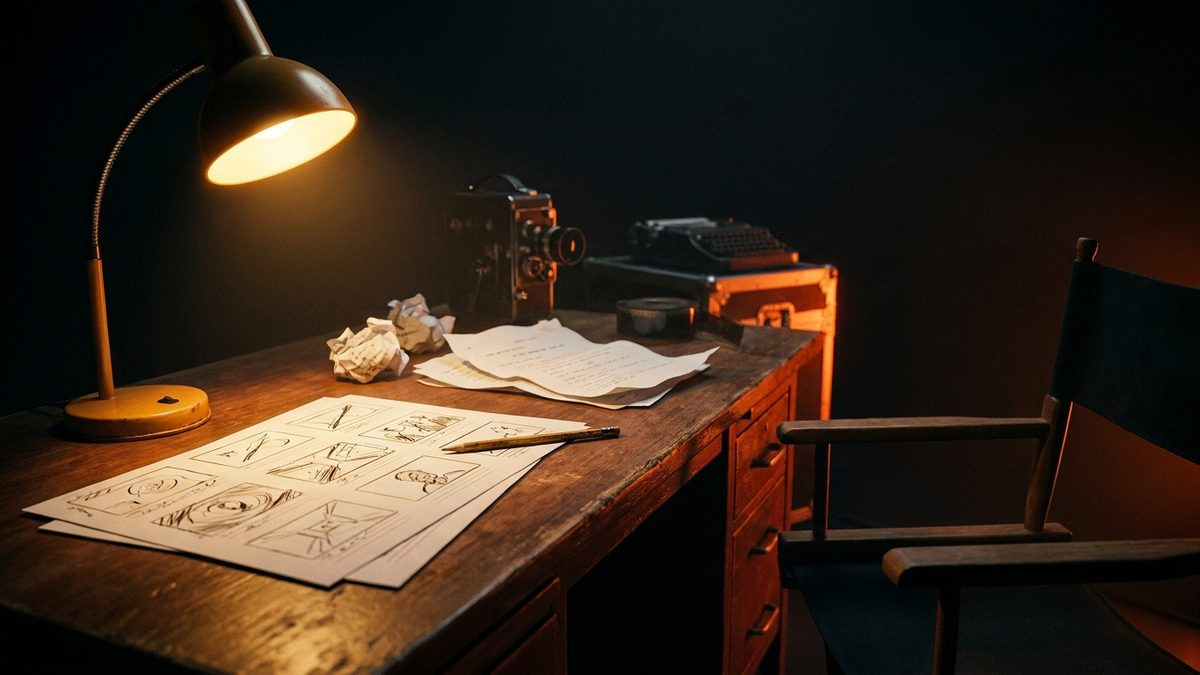
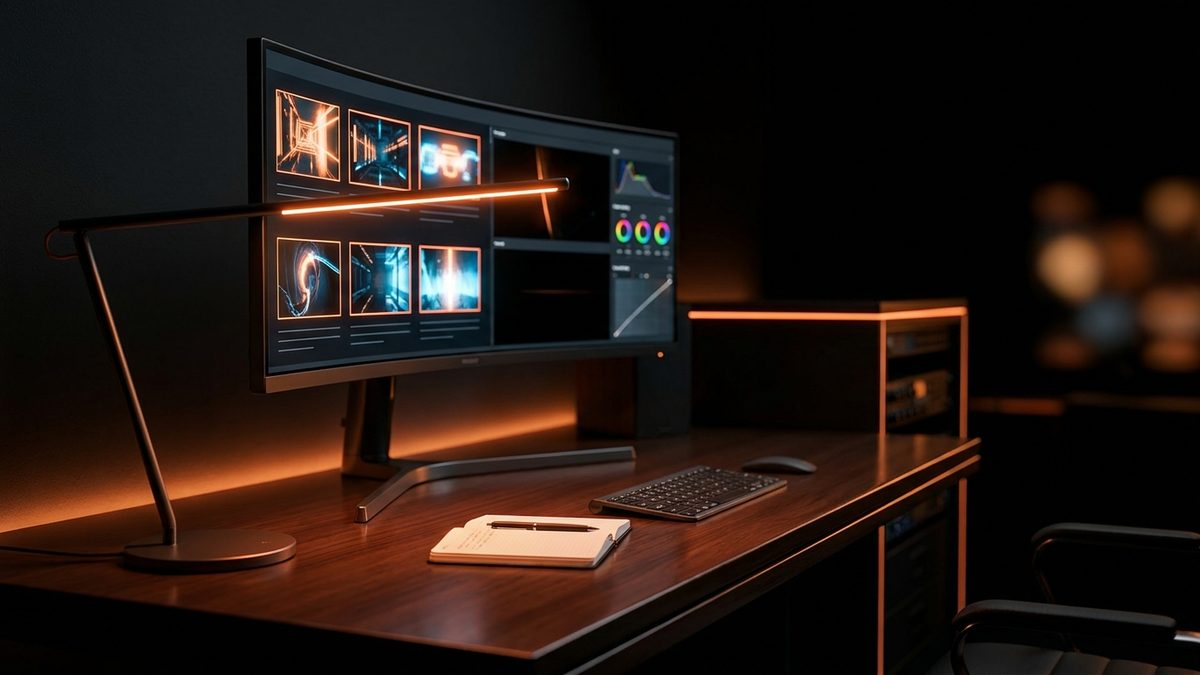
Iconos + imágenes modernas en proceso y Pod Factory
- Iconos de trazo propios en las 4 mini-features de Pod Factory y en los
  pasos 01-05 del proceso (ampolleta, lápiz, claqueta, sliders, send)
- Alineación uniforme de las columnas del proceso (padding parejo)
- Reemplazo de las imágenes vintage: 'Pensamos, no sólo filmamos'
  (workstation moderna) y banner del proceso (mesa de planificación cenital)

diff --git a/variations/funnel-landing.jsx b/variations/funnel-landing.jsx
@@ -35,6 +35,27 @@ function WhatsAppIcon({ size = 16, color = '#fff' }) {
   );
 }
 
+// Iconos de trazo propios (24x24, stroke uniforme)
+function StrokeIcon({ children, size = 22, color = '#141414' }) {
+  return (
+    <svg viewBox="0 0 24 24" width={size} height={size} fill="none" stroke={color}
+      strokeWidth="1.6" strokeLinecap="round" strokeLinejoin="round" style={{ display: 'block' }}>
+      {children}
+    </svg>
+  );
+}
+const ICONS = {
+  camara: <><rect x="2.5" y="6.5" width="12.5" height="11" rx="2" /><path d="M15 10.5l6.5-3.5v10l-6.5-3.5" /></>,
+  episodios: <path d="M4 10v4M8 7v10M12 4v16M16 7v10M20 10v4" />,
+  reloj: <><circle cx="12" cy="12" r="8.5" /><path d="M12 7.5V12l3.5 2" /></>,
+  movil: <><path d="M12 21.5s-7-5.4-7-11.2A7 7 0 0 1 19 10.3c0 5.8-7 11.2-7 11.2z" /><circle cx="12" cy="10.3" r="2.4" /></>,
+  concepto: <><path d="M12 3a6 6 0 0 0-3.4 10.9c.7.5 1.1 1.3 1.3 2.1h4.2c.2-.8.6-1.6 1.3-2.1A6 6 0 0 0 12 3z" /><path d="M9.5 19.5h5M10.5 22h3" /></>,
+  guion: <path d="M17 3a2.83 2.83 0 1 1 4 4L7.5 20.5 2 22l1.5-5.5L17 3z" />,
+  rodaje: <><path d="M3.5 8.5v10a2 2 0 0 0 2 2h13a2 2 0 0 0 2-2v-10H3.5z" /><path d="M3.5 8.5L6 3.5h14.5l-2.5 5M9.5 3.5L7 8.5M15 3.5l-2.5 5" /></>,
+  post: <><path d="M4 7h7M17 7h3M4 12h3M11 12h9M4 17h11M19 17h1" /><circle cx="14.5" cy="7" r="2" /><circle cx="8.5" cy="12" r="2" /><circle cx="16.5" cy="17" r="2" /></>,
+  distribucion: <path d="M22 2L11 13M22 2l-7 20-4-9-9-4 20-7z" />,
+};
+
 function WAButton({ context, label = 'Hablemos', size = 'md', variant = 'cream', style = {} }) {
   const sizes = {
     sm: { pad: '10px 18px', fs: 12, ic: 13 },
@@ -537,18 +558,20 @@ function FunnelLanding() {
 
         <div className="reasons-grid" style={{ display: 'grid', gridTemplateColumns: '1fr 1fr 1fr 1fr 1fr', gap: 0, borderTop: `1px solid ${FL.paper}25` }}>
           {[
-            ['01', 'Concepto', 'Conversamos contigo y proponemos la idea que mueve el proyecto.'],
-            ['02', 'Guion & arte', 'Escribimos, dirigimos arte, planificamos producción.'],
-            ['03', 'Rodaje', 'Equipo propio, set o locación. Cámara, sonido, dirección.'],
-            ['04', 'Post', 'Edición, color, sonido, masterizado.'],
-            ['05', 'Distribución', 'Te dejamos listo para publicar en cualquier canal.'],
-          ].map(([n, t, d], i) => (
+            ['01', 'Concepto', 'Conversamos contigo y proponemos la idea que mueve el proyecto.', 'concepto'],
+            ['02', 'Guion & arte', 'Escribimos, dirigimos arte, planificamos producción.', 'guion'],
+            ['03', 'Rodaje', 'Equipo propio, set o locación. Cámara, sonido, dirección.', 'rodaje'],
+            ['04', 'Post', 'Edición, color, sonido, masterizado.', 'post'],
+            ['05', 'Distribución', 'Te dejamos listo para publicar en cualquier canal.', 'distribucion'],
+          ].map(([n, t, d, ic], i) => (
             <Reveal key={n} delay={i * 120} style={{
-              padding: '24px 16px 24px 0',
+              padding: '24px 16px',
               borderRight: i < 4 ? `1px solid ${FL.paper}15` : 'none',
-              paddingLeft: i > 0 ? 16 : 0,
             }}>
-              <div style={{ fontFamily: FL.mono, fontSize: 11, color: FL.accent, marginBottom: 16 }}>{n}</div>
+              <div style={{ display: 'flex', justifyContent: 'space-between', alignItems: 'center', marginBottom: 16 }}>
+                <div style={{ fontFamily: FL.mono, fontSize: 11, color: FL.accent }}>{n}</div>
+                <StrokeIcon color={FL.accent} size={20}>{ICONS[ic]}</StrokeIcon>
+              </div>
               <div style={{ fontFamily: FL.display, fontSize: 22, fontWeight: 400, marginBottom: 8, lineHeight: 1.1 }}>{t}</div>
               <div style={{ fontSize: 12, color: FL.muted, lineHeight: 1.5 }}>{d}</div>
             </Reveal>
@@ -674,13 +697,14 @@ function FunnelLanding() {
           {/* Mini features grid */}
           <div className="mini-features-grid" style={{ display: 'grid', gridTemplateColumns: '1fr 1fr', gap: 10 }}>
             {[
-              ['4 cámaras 4K', '#1F3FA3'],
-              ['+300 episodios producidos', '#D92E2E'],
-              ['24h entrega masterizada', '#EF6A1F'],
-              ['Grabamos donde estés', '#F4B81C'],
-            ].map(([t, c], i) => (
-              <Reveal key={i} delay={300 + i * 110} style={{ border: `1.5px solid ${FL.ink}`, background: FL.paper, padding: 18, minHeight: 120, display: 'flex', flexDirection: 'column', justifyContent: 'space-between' }}>
+              ['4 cámaras 4K', '#1F3FA3', 'camara'],
+              ['+300 episodios producidos', '#D92E2E', 'episodios'],
+              ['24h entrega masterizada', '#EF6A1F', 'reloj'],
+              ['Grabamos donde estés', '#F4B81C', 'movil'],
+            ].map(([t, c, ic], i) => (
+              <Reveal key={i} delay={300 + i * 110} style={{ border: `1.5px solid ${FL.ink}`, background: FL.paper, padding: 18, minHeight: 132, display: 'flex', flexDirection: 'column', justifyContent: 'space-between', gap: 12 }}>
                 <div style={{ height: 6, background: c, width: 40 }} />
+                <StrokeIcon color={FL.ink} size={26}>{ICONS[ic]}</StrokeIcon>
                 <div style={{ fontFamily: FL.sans, fontWeight: 700, fontSize: 18, letterSpacing: '-0.015em' }}>{t}</div>
               </Reveal>
             ))}

diff --git a/index.html b/index.html
@@ -103,10 +103,10 @@
 <body>
 <div id="root"></div>
 
-<script type="text/babel" src="variations/shared.jsx?v=41"></script>
-<script type="text/babel" src="variations/funnel-landing.jsx?v=41"></script>
-<script type="text/babel" src="app.jsx?v=41"></script>
-<script type="module" src="fx3d.js?v=41"></script>
+<script type="text/babel" src="variations/shared.jsx?v=42"></script>
+<script type="text/babel" src="variations/funnel-landing.jsx?v=42"></script>
+<script type="text/babel" src="app.jsx?v=42"></script>
+<script type="module" src="fx3d.js?v=42"></script>
 
 <!-- Scroll con inercia (solo desktop con mouse/trackpad; touch y reduced-motion quedan nativos) -->
 <script src="https://unpkg.com/lenis@1.1.14/dist/lenis.min.js"></script>
